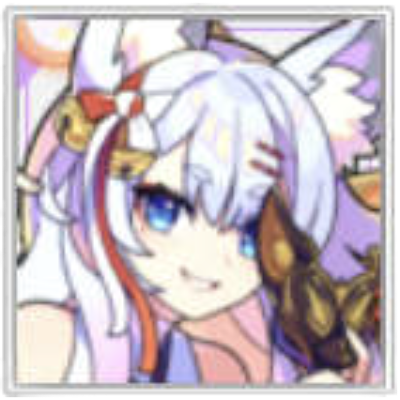
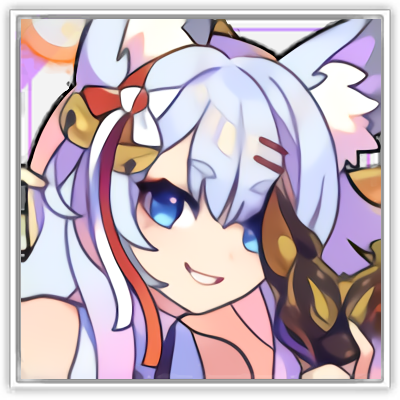
quality up

diff --git a/js/script.js b/js/script.js
@@ -348,6 +348,23 @@ function create_pool(pool_name){
 			FillPrizes(prizes,'images/character/kamiina.png',1,true);//角色
 			FillPrizes(prizes,'images/character/linglan.png',1,true);//角色
 		break;
+		case "ciandaoshanghuei":
+		    prizes=[];
+			FillPrizes(prizes,'images/material/gold.png',6);//金幣
+			FillPrizes(prizes,'images/material/Cert_Summit.png',1);//頂尖證明
+			FillPrizes(prizes,'images/material/AwakeStone.png',2);//小覺醒石
+			FillPrizes(prizes,'images/material/AwakeStone1.png',2);//中覺醒石
+			FillPrizes(prizes,'images/material/AwakeStone2.png',2);//大覺醒石
+			FillPrizes(prizes,'images/material/food.png',3);//漢堡
+			FillPrizes(prizes,'images/material/Cert_Archer_copper.png',1);//弓銅
+			FillPrizes(prizes,'images/material/Cert_Healer_copper.png',1);//牧銅
+			FillPrizes(prizes,'images/material/Cert_Sword_copper.png',1);//劍銅
+			FillPrizes(prizes,'images/material/Cert_Wizard_copper.png',1);//法銅
+			FillPrizes(prizes,'images/material/skip.png',2);//掃蕩卷
+			FillPrizes(prizes,'images/character/bulliedRabbit_SSR.png',1,true);//角色
+			FillPrizes(prizes,'images/character/qiuren_Archer.png',1,true);//角色
+			FillPrizes(prizes,'images/character/Marlow_SR.png',1,true);//角色
+		break;
 	    default:
 	    alert('由於沒有圖片素材，目前只開放病病池/畢業池(低畫質版)');
 	    return;

diff --git a/index.html b/index.html
@@ -35,6 +35,7 @@
 		  <div class="submenu">
 			<a class="submenu-item pool binbin" href="#">我滿懷青春的有病池</a>
 			<a class="submenu-item pool cloudhorizon" href="#">雲際線畢業池</a>
+			<a class="submenu-item pool ciandaoshanghuei" href="#">千稻商會</a>
 			<a class="submenu-item pool chasedrea1" href="#">裙子底下有槍ep1</a>
 			<a class="submenu-item pool chasedrea2" href="#">裙子底下有槍ep2</a>
 		  </div>

diff --git a/css/index.css b/css/index.css
@@ -121,7 +121,7 @@ canvas {
 #container {
   margin: 0 auto; 
   text-align : center;
-  width: 80%; 
+  max-width: 1000px; 
 }
 #container table {
     margin: 0 auto;
